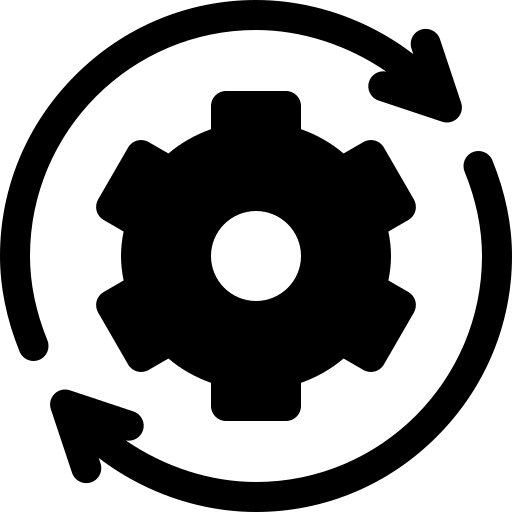
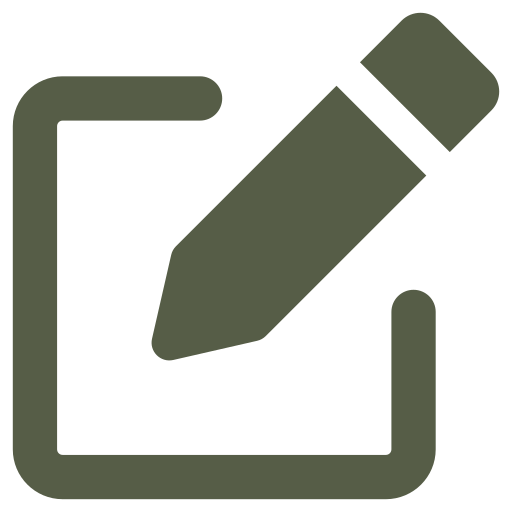
today

diff --git a/frontend/src/pages/AdminPackages.jsx b/frontend/src/pages/AdminPackages.jsx
@@ -875,7 +875,7 @@ export default function AdminPackages({ embedLayout = false }) {
                   <IconBtn
                     icon={updateIcon}
                     alt="Update"
-                    tooltip="Update"
+                    tooltip="Edit"
                     onClick={() => navigate(`/packages/edit/${pkg._id}`)}
                     btnStyle={{
                       width: '40px',